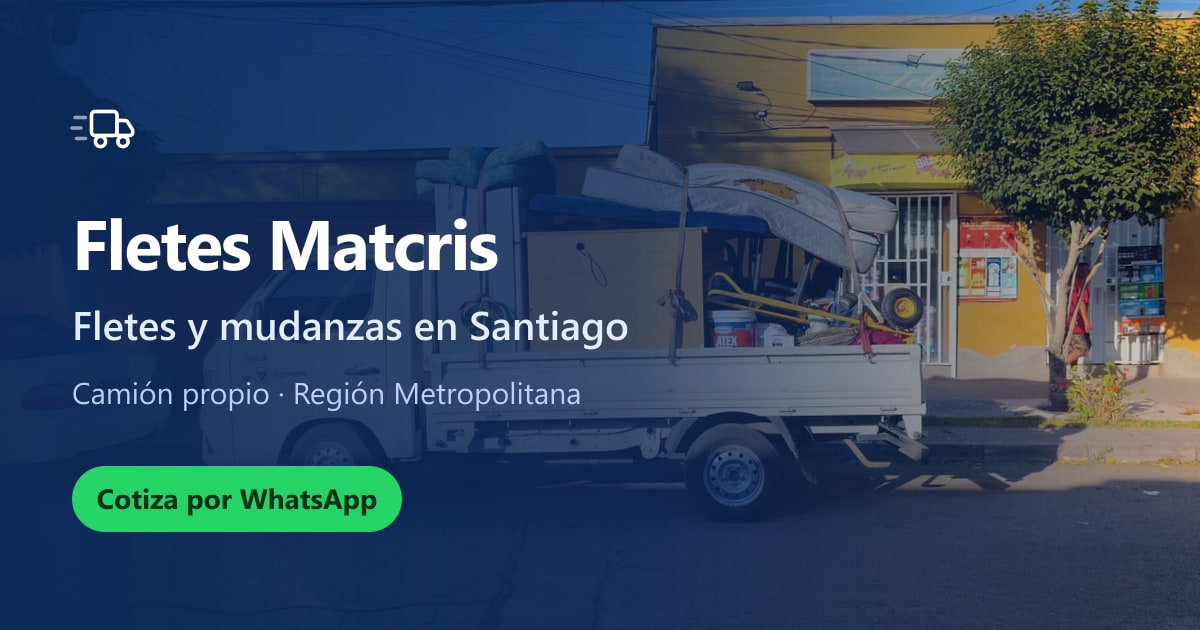
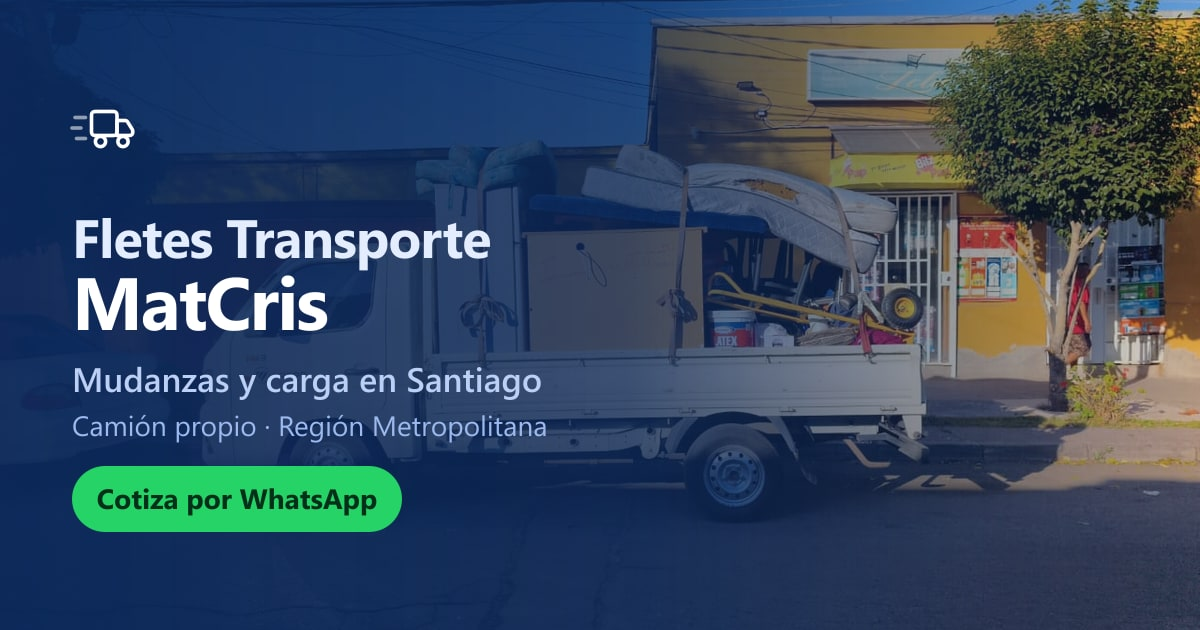
Unificar el nombre comercial: Fletes Transporte MatCris
El nombre queda definido y se aplica en todo el sitio: datos del negocio,
marca del encabezado, titulo de la home, textos alternativos de las fotos
y la imagen para redes sociales.

La marca del encabezado se reajusta porque el nombre es mas largo: la
tipografia baja a 15px en movil y a 14px por debajo de 390px, donde
ademas se oculta la bajada. Verificado a 320 y 375 px: sin desborde
horizontal y sin superposicion con el boton de menu.

La imagen Open Graph se rehace en dos lineas para que el nombre entre
sin achicarse.

El dominio fletesmatcris.cl no cambia: no necesita coincidir literalmente
con el nombre comercial.

Queda pendiente, fuera del codigo, alinear el mismo nombre en el Google
Business Profile, Instagram y la rotulacion del camion. Google cruza esas
fuentes y las inconsistencias penalizan la posicion en el mapa.

Changed region(s): [[0.0617, 0.3317, 0.5242, 0.5429], [0.0617, 0.573, 0.4933, 0.6937]]

diff --git a/src/data/analitica.js b/src/data/analitica.js
@@ -7,7 +7,9 @@
  * sacás herramientas sin volver a tocar el código ni redesplegar.
  */
 export const analitica = {
-  // Contenedor "fletesmatcris.cl" de la cuenta "Fletes Matcris".
+  // Contenedor "fletesmatcris.cl" de la cuenta "Fletes Matcris" en GTM.
+  // (El nombre de la cuenta en GTM quedó con la grafía anterior; no
+  // afecta a la medición, pero conviene renombrarla cuando se pueda.)
   gtmId: 'GTM-M6HSMWP7',
 
   // Alternativa si preferís GA4 directo, sin GTM. Ej: 'G-XXXXXXXXXX'

diff --git a/public/admin/index.html b/public/admin/index.html
@@ -4,7 +4,7 @@
     <meta charset="utf-8" />
     <meta name="viewport" content="width=device-width, initial-scale=1.0" />
     <meta name="robots" content="noindex, nofollow" />
-    <title>Administrador · Fletes Matcris</title>
+    <title>Administrador · Fletes Transporte MatCris</title>
     <script src="https://identity.netlify.com/v1/netlify-identity-widget.js"></script>
   </head>
 

diff --git a/src/styles/global.css b/src/styles/global.css
@@ -1,5 +1,5 @@
 /* ==========================================================================
-   Sistema de diseño — Fletes Matcris
+   Sistema de diseño — Fletes Transporte MatCris
    Mobile first. Los breakpoints suben desde 375px.
    ========================================================================== */
 

diff --git a/README.md b/README.md
@@ -1,4 +1,4 @@
-# Fletes Matcris — sitio web
+# Fletes Transporte MatCris — sitio web
 
 Sitio de [fletesmatcris.cl](https://fletesmatcris.cl), construido con
 [Astro](https://astro.build). Genera **HTML estático**: cada página se sirve ya
@@ -77,20 +77,23 @@ cambiás, se rompen los enlaces y Google pierde lo que ya tenía indexado.
 
 ## ⚠ Pendientes antes de invertir en Google Ads
 
-### 1. Definir un solo nombre comercial
+### 1. Unificar el nombre en todos los canales
 
-Hoy conviven cuatro identidades distintas:
+El nombre comercial definido es **Fletes Transporte MatCris**. Ya está aplicado
+en el sitio, pero todavía no en el resto:
 
-| Dónde | Dice |
+| Dónde | Estado |
 |---|---|
-| Sitio web y dominio | Fletes Matcris |
-| Puerta del camión | M&M |
-| Baranda del camión | FLETES Y MUDANZAS |
-| Instagram | @fletesmatcris |
+| Sitio web | ✅ Fletes Transporte MatCris |
+| Google Business Profile | ⏳ Debe decir exactamente lo mismo |
+| Instagram (@fletesmatcris) | ⏳ Cambiar el nombre visible del perfil |
+| Cuenta de Google Tag Manager | ⏳ Quedó como "Fletes Matcris" (no afecta la medición) |
+| Rotulación del camión | ⏳ Dice "M&M" y "FLETES Y MUDANZAS" |
 
 Google cruza nombre, dirección y teléfono entre el sitio, el Business Profile y
-las redes. Cuando no coinciden, posiciona peor en el mapa. **Hay que unificarlo
-antes de crear el Google Business Profile.**
+las redes. Cuando no coinciden, posiciona peor en el mapa. El dominio
+`fletesmatcris.cl` no necesita cambiar: no tiene que coincidir literalmente con
+el nombre comercial.
 
 ### 2. Completar datos faltantes
 
